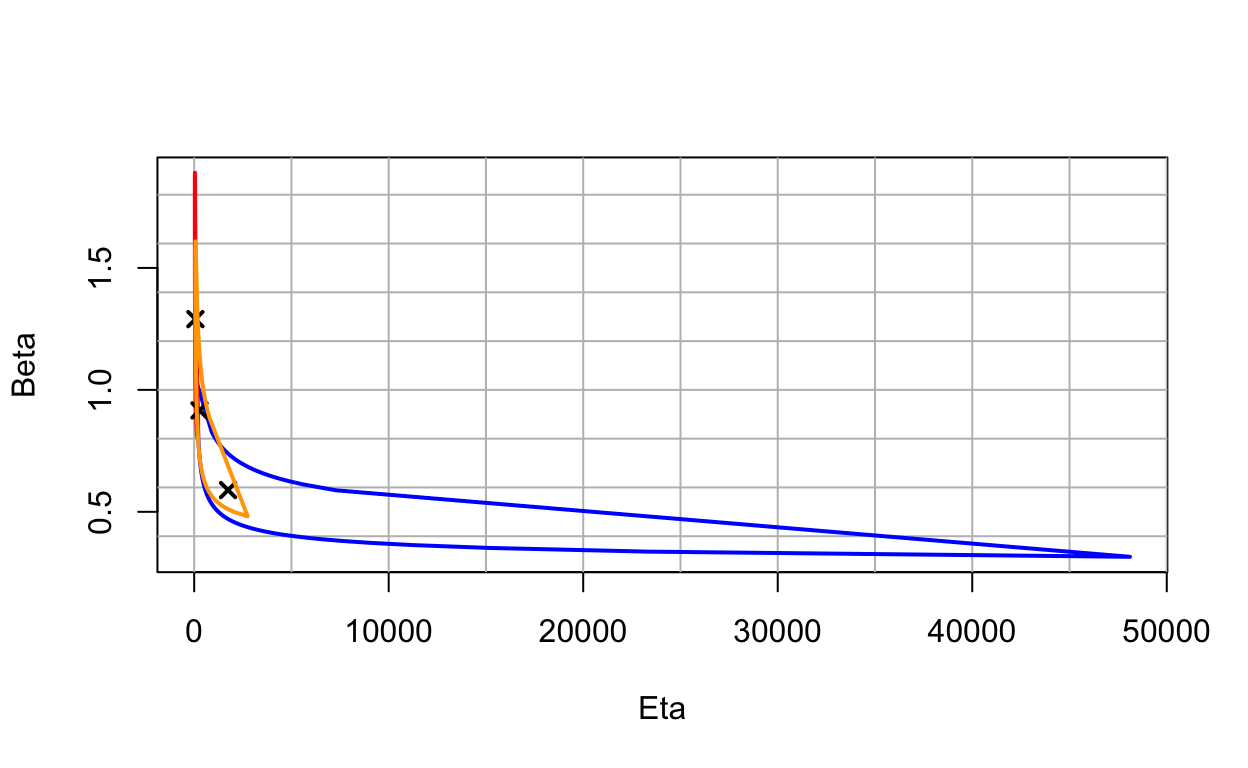
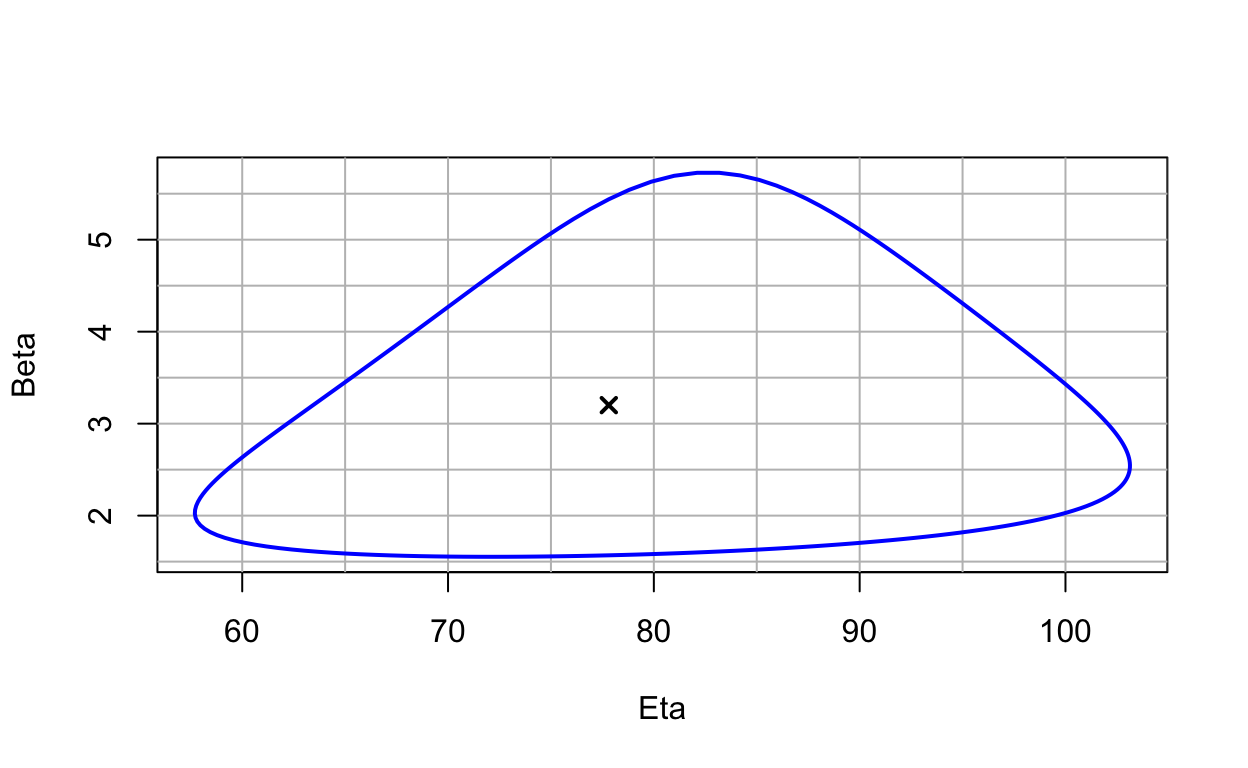
Update WeibullR.learnr function

diff --git a/inst/learnr/WeibullR.learnr.html b/inst/learnr/WeibullR.learnr.html
@@ -207,6 +207,10 @@ plot(x,y, type = &quot;l&quot;, col = &quot;blue&quot;, xlab = &quot;Variable&qu
 <pre class="r"><code>failures&lt;-c(30, 49, 82, 90, 96)
 fit&lt;-MLEw2p(failures, bounds=TRUE, show=TRUE)</code></pre>
 <p><img src="WeibullR.learnr_files/figure-html/unnamed-chunk-9-1.png" width="624" /></p>
+</div>
+<div id="section-the-weibull-probability-plot" class="section level3">
+<h3>The Weibull Probability Plot</h3>
+<p>The Weibull Probability Plot shows the time (or equivalent) on the horizontal axis and the unreliability on the vertical axis. In this case, unreliability is analogous to the cumulative probability of failure. We know from the cumulative distribution function that the opposite of the failure probability is the survival probability or reliability. So an unreliability of 80% at a given time is equivalent to a reliability of 20% (100% - 80% = 20%).</p>
 <p>Note that the horizontal axis on a probability plot is log scale, and the vertical axis is log(log(1-p)) scale, where p=(i-0.3)/(n+4) and i is the rank of the observation. By using this scale, the resulting plot of the Weibull data appears linear.</p>
 </div>
 <div id="section-exercises-1" class="section level3">
@@ -416,12 +420,21 @@ plot.wblr(list(obj1, obj2, obj3), is.plot.legend = FALSE)</code></pre>
 <div id="section-contour-plots" class="section level2">
 <h2>Contour Plots</h2>
 <p>Another way to compare multiple Weibull models is with contour plots. In this context, a contour plot consists of curves or contours that represent the Weibull distribution in terms of the parameters Beta and Eta.</p>
-<p>Let’s rerun the competing failure mode example and build contour plots for each failure mode at a probability level of 90%.</p>
+<p>Let’s start by rerunning the first example and building a contour plot.</p>
+<pre class="r"><code>failures&lt;-c(30, 49, 82, 90, 96)
+obj &lt;- wblr.conf(wblr.fit(wblr(failures, col=&quot;blue&quot;), method=&quot;mle&quot;), method=&quot;lrb&quot;)
+plot_contour(obj, CL=0.9)</code></pre>
+<p><img src="WeibullR.learnr_files/figure-html/unnamed-chunk-26-1.png" width="624" /></p>
+<p>The Weibull contour plot shows Eta on the horizontal axis, Beta on the vertical axis, and the contour plot at the selected probability (90% in this case).</p>
+<div id="section-comparing-contour-plots" class="section level3">
+<h3>Comparing Contour Plots</h3>
+<p>When comparing Weibull models, it may be helpful to think about contour plots like Venn diagrams. When contours overlap, then similarities probably exist between the distributions. When contours have no overlap, then the distributions are probably different (at the selected probability).</p>
+<p>To visualize these concepts, let’s rerun the competing failure mode example and build contour plots for each failure mode at a probability level of 90%.</p>
 <pre class="r"><code>obj1 &lt;- wblr.conf(wblr.fit(wblr(dat1, col=&quot;blue&quot;), method=&quot;mle&quot;), method=&quot;lrb&quot;)
 obj2 &lt;- wblr.conf(wblr.fit(wblr(dat2, col=&quot;red&quot;), method=&quot;mle&quot;), method=&quot;lrb&quot;)
 obj3 &lt;- wblr.conf(wblr.fit(wblr(dat3, col=&quot;orange&quot;), method=&quot;mle&quot;), method=&quot;lrb&quot;)
 plot_contour(list(obj1, obj2, obj3), CL=0.9)</code></pre>
-<p><img src="WeibullR.learnr_files/figure-html/unnamed-chunk-26-1.png" width="624" /></p>
+<p><img src="WeibullR.learnr_files/figure-html/unnamed-chunk-27-1.png" width="624" /></p>
 <div class="panel panel-default tutorial-question-container">
 <div data-label="contour-plots" class="tutorial-question panel-body">
 <div id="contour-plots-answer_container" class="shiny-html-output"></div>
@@ -431,6 +444,7 @@ plot_contour(list(obj1, obj2, obj3), CL=0.9)</code></pre>
 </div>
 </div>
 <p><strong>Challenge:</strong> rerun the competing failure mode example with a different number in the <code>set.seed</code> function and see if the same results hold true.</p>
+</div>
 </div>
 <div id="section-wrapping-up" class="section level2">
 <h2>Wrapping Up</h2>
@@ -485,16 +499,16 @@ output$distPlot <- renderPlot({
  
 <script type="application/shiny-prerendered" data-context="server">
 learnr:::question_prerendered_chunk(structure(list(type = "learnr_radio", label = "beta", question = structure("Which beta below may indicate a wear out failure mode?", html = TRUE, class = c("html", 
-"character")), answers = list(structure(list(id = "lnr_ans_c89bfff", 
+"character")), answers = list(structure(list(id = "lnr_ans_b21a382", 
     option = "1", value = "1", label = structure("1", html = TRUE, class = c("html", 
     "character")), correct = FALSE, message = NULL, type = "literal"), class = c("tutorial_question_answer", 
-"tutorial_quiz_answer")), structure(list(id = "lnr_ans_c39ea5d", 
+"tutorial_quiz_answer")), structure(list(id = "lnr_ans_96614cb", 
     option = "0.5", value = "0.5", label = structure("0.5", html = TRUE, class = c("html", 
     "character")), correct = FALSE, message = NULL, type = "literal"), class = c("tutorial_question_answer", 
-"tutorial_quiz_answer")), structure(list(id = "lnr_ans_7f5fb86", 
+"tutorial_quiz_answer")), structure(list(id = "lnr_ans_d7039d1", 
     option = "2", value = "2", label = structure("2", html = TRUE, class = c("html", 
     "character")), correct = TRUE, message = NULL, type = "literal"), class = c("tutorial_question_answer", 
-"tutorial_quiz_answer")), structure(list(id = "lnr_ans_2c8f2b1", 
+"tutorial_quiz_answer")), structure(list(id = "lnr_ans_f8bdeab", 
     option = "0", value = "0", label = structure("0", html = TRUE, class = c("html", 
     "character")), correct = FALSE, message = NULL, type = "literal"), class = c("tutorial_question_answer", 
 "tutorial_quiz_answer"))), button_labels = list(submit = structure("<span data-i18n=\"button.questionsubmit\">Submit Answer<\u002fspan>", html = TRUE, class = c("html", 
@@ -504,23 +518,23 @@ learnr:::question_prerendered_chunk(structure(list(type = "learnr_radio", label 
 "character")), incorrect = structure("Incorrect", html = TRUE, class = c("html", 
 "character")), message = NULL, post_message = NULL), ids = list(
     answer = "beta-answer", question = "beta"), loading = NULL, 
-    random_answer_order = TRUE, allow_retry = FALSE, seed = 1177757972.45156, 
+    random_answer_order = TRUE, allow_retry = FALSE, seed = 203062660.405442, 
     options = list()), class = c("learnr_radio", "tutorial_question"
 )), session = session)
 </script>
  
 <script type="application/shiny-prerendered" data-context="server">
 learnr:::question_prerendered_chunk(structure(list(type = "learnr_radio", label = "eta", question = structure("What does the parameter eta represent?", html = TRUE, class = c("html", 
-"character")), answers = list(structure(list(id = "lnr_ans_b399172", 
+"character")), answers = list(structure(list(id = "lnr_ans_fe43d48", 
     option = "shape parameter", value = "shape parameter", label = structure("shape parameter", html = TRUE, class = c("html", 
     "character")), correct = FALSE, message = NULL, type = "literal"), class = c("tutorial_question_answer", 
-"tutorial_quiz_answer")), structure(list(id = "lnr_ans_b3c396b", 
+"tutorial_quiz_answer")), structure(list(id = "lnr_ans_71df3d0", 
     option = "scale parameter", value = "scale parameter", label = structure("scale parameter", html = TRUE, class = c("html", 
     "character")), correct = TRUE, message = NULL, type = "literal"), class = c("tutorial_question_answer", 
-"tutorial_quiz_answer")), structure(list(id = "lnr_ans_21c6baf", 
+"tutorial_quiz_answer")), structure(list(id = "lnr_ans_bfaeb2b", 
     option = "failure rate", value = "failure rate", label = structure("failure rate", html = TRUE, class = c("html", 
     "character")), correct = FALSE, message = NULL, type = "literal"), class = c("tutorial_question_answer", 
-"tutorial_quiz_answer")), structure(list(id = "lnr_ans_bdcb66a", 
+"tutorial_quiz_answer")), structure(list(id = "lnr_ans_a74f5b8", 
     option = "mean time between failures", value = "mean time between failures", 
     label = structure("mean time between failures", html = TRUE, class = c("html", 
     "character")), correct = FALSE, message = NULL, type = "literal"), class = c("tutorial_question_answer", 
@@ -531,7 +545,7 @@ learnr:::question_prerendered_chunk(structure(list(type = "learnr_radio", label 
 "character")), incorrect = structure("Incorrect", html = TRUE, class = c("html", 
 "character")), message = NULL, post_message = NULL), ids = list(
     answer = "eta-answer", question = "eta"), loading = NULL, 
-    random_answer_order = TRUE, allow_retry = FALSE, seed = 793648902.130428, 
+    random_answer_order = TRUE, allow_retry = FALSE, seed = 1585963548.76148, 
     options = list()), class = c("learnr_radio", "tutorial_question"
 )), session = session)
 </script>
@@ -553,16 +567,16 @@ output$cummPlot2 <- renderPlot({
 <script type="application/shiny-prerendered" data-context="server">
 learnr:::question_prerendered_chunk(structure(list(type = "learnr_radio", label = "unreliability", 
     question = structure("What is the approximate unreliability at time 100?", html = TRUE, class = c("html", 
-    "character")), answers = list(structure(list(id = "lnr_ans_c275d54", 
-        option = "50%", value = "50%", label = structure("50%", html = TRUE, class = c("html", 
-        "character")), correct = FALSE, message = NULL, type = "literal"), class = c("tutorial_question_answer", 
-    "tutorial_quiz_answer")), structure(list(id = "lnr_ans_ca4b6f8", 
+    "character")), answers = list(structure(list(id = "lnr_ans_81aece6", 
         option = "20%", value = "20%", label = structure("20%", html = TRUE, class = c("html", 
         "character")), correct = FALSE, message = NULL, type = "literal"), class = c("tutorial_question_answer", 
-    "tutorial_quiz_answer")), structure(list(id = "lnr_ans_e1f3d1a", 
-        option = "75%", value = "75%", label = structure("75%", html = TRUE, class = c("html", 
+    "tutorial_quiz_answer")), structure(list(id = "lnr_ans_e59e8d9", 
+        option = "80%", value = "80%", label = structure("80%", html = TRUE, class = c("html", 
         "character")), correct = FALSE, message = NULL, type = "literal"), class = c("tutorial_question_answer", 
-    "tutorial_quiz_answer")), structure(list(id = "lnr_ans_f708592", 
+    "tutorial_quiz_answer")), structure(list(id = "lnr_ans_8e67ef", 
+        option = "10%", value = "10%", label = structure("10%", html = TRUE, class = c("html", 
+        "character")), correct = FALSE, message = NULL, type = "literal"), class = c("tutorial_question_answer", 
+    "tutorial_quiz_answer")), structure(list(id = "lnr_ans_2bb53f1", 
         option = "90%", value = "90%", label = structure("90%", html = TRUE, class = c("html", 
         "character")), correct = TRUE, message = NULL, type = "literal"), class = c("tutorial_question_answer", 
     "tutorial_quiz_answer"))), button_labels = list(submit = structure("<span data-i18n=\"button.questionsubmit\">Submit Answer<\u002fspan>", html = TRUE, class = c("html", 
@@ -573,22 +587,22 @@ learnr:::question_prerendered_chunk(structure(list(type = "learnr_radio", label 
     "character")), message = NULL, post_message = NULL), ids = list(
         answer = "unreliability-answer", question = "unreliability"), 
     loading = NULL, random_answer_order = TRUE, allow_retry = FALSE, 
-    seed = 844391922.606799, options = list()), class = c("learnr_radio", 
+    seed = 756753522.647609, options = list()), class = c("learnr_radio", 
 "tutorial_question")), session = session)
 </script>
  
 <script type="application/shiny-prerendered" data-context="server">
-learnr:::question_prerendered_chunk(structure(list(type = "learnr_radio", label = "b50", question = structure("What is the approximate P50 life (the time at which 50% of the machines are expected to fail?)", html = TRUE, class = c("html", 
-"character")), answers = list(structure(list(id = "lnr_ans_abb26ca", 
-    option = "70", value = "70", label = structure("70", html = TRUE, class = c("html", 
+learnr:::question_prerendered_chunk(structure(list(type = "learnr_radio", label = "b50", question = structure("What is the approximate reliability at time 50?)", html = TRUE, class = c("html", 
+"character")), answers = list(structure(list(id = "lnr_ans_d523dd7", 
+    option = "20%", value = "20%", label = structure("20%", html = TRUE, class = c("html", 
     "character")), correct = TRUE, message = NULL, type = "literal"), class = c("tutorial_question_answer", 
-"tutorial_quiz_answer")), structure(list(id = "lnr_ans_7e0d264", 
-    option = "50", value = "50", label = structure("50", html = TRUE, class = c("html", 
+"tutorial_quiz_answer")), structure(list(id = "lnr_ans_b168537", 
+    option = "80%", value = "80%", label = structure("80%", html = TRUE, class = c("html", 
     "character")), correct = FALSE, message = NULL, type = "literal"), class = c("tutorial_question_answer", 
-"tutorial_quiz_answer")), structure(list(id = "lnr_ans_4d6e302", 
-    option = "100", value = "100", label = structure("100", html = TRUE, class = c("html", 
+"tutorial_quiz_answer")), structure(list(id = "lnr_ans_16f9718", 
+    option = "10", value = "10", label = structure("10", html = TRUE, class = c("html", 
     "character")), correct = FALSE, message = NULL, type = "literal"), class = c("tutorial_question_answer", 
-"tutorial_quiz_answer")), structure(list(id = "lnr_ans_e06fa2a", 
+"tutorial_quiz_answer")), structure(list(id = "lnr_ans_8b453fb", 
     option = "90", value = "90", label = structure("90", html = TRUE, class = c("html", 
     "character")), correct = FALSE, message = NULL, type = "literal"), class = c("tutorial_question_answer", 
 "tutorial_quiz_answer"))), button_labels = list(submit = structure("<span data-i18n=\"button.questionsubmit\">Submit Answer<\u002fspan>", html = TRUE, class = c("html", 
@@ -598,23 +612,23 @@ learnr:::question_prerendered_chunk(structure(list(type = "learnr_radio", label 
 "character")), incorrect = structure("Incorrect", html = TRUE, class = c("html", 
 "character")), message = NULL, post_message = NULL), ids = list(
     answer = "b50-answer", question = "b50"), loading = NULL, 
-    random_answer_order = TRUE, allow_retry = FALSE, seed = 754113424.148839, 
+    random_answer_order = TRUE, allow_retry = FALSE, seed = 2020985366.05891, 
     options = list()), class = c("learnr_radio", "tutorial_question"
 )), session = session)
 </script>
  
 <script type="application/shiny-prerendered" data-context="server">
 learnr:::question_prerendered_chunk(structure(list(type = "learnr_radio", label = "qty", question = structure("In the interval censored example, how many units are in the group of suspensions that did not fail?", html = TRUE, class = c("html", 
-"character")), answers = list(structure(list(id = "lnr_ans_9ae411c", 
+"character")), answers = list(structure(list(id = "lnr_ans_8312b26", 
     option = "73", value = "73", label = structure("73", html = TRUE, class = c("html", 
     "character")), correct = TRUE, message = NULL, type = "literal"), class = c("tutorial_question_answer", 
-"tutorial_quiz_answer")), structure(list(id = "lnr_ans_b5a98b8", 
+"tutorial_quiz_answer")), structure(list(id = "lnr_ans_66adec9", 
     option = "17", value = "17", label = structure("17", html = TRUE, class = c("html", 
     "character")), correct = FALSE, message = NULL, type = "literal"), class = c("tutorial_question_answer", 
-"tutorial_quiz_answer")), structure(list(id = "lnr_ans_51de18f", 
+"tutorial_quiz_answer")), structure(list(id = "lnr_ans_ff14d4c", 
     option = "94", value = "94", label = structure("94", html = TRUE, class = c("html", 
     "character")), correct = FALSE, message = NULL, type = "literal"), class = c("tutorial_question_answer", 
-"tutorial_quiz_answer")), structure(list(id = "lnr_ans_424976a", 
+"tutorial_quiz_answer")), structure(list(id = "lnr_ans_6250cdd", 
     option = "63.48", value = "63.48", label = structure("63.48", html = TRUE, class = c("html", 
     "character")), correct = FALSE, message = NULL, type = "literal"), class = c("tutorial_question_answer", 
 "tutorial_quiz_answer"))), button_labels = list(submit = structure("<span data-i18n=\"button.questionsubmit\">Submit Answer<\u002fspan>", html = TRUE, class = c("html", 
@@ -624,7 +638,7 @@ learnr:::question_prerendered_chunk(structure(list(type = "learnr_radio", label 
 "character")), incorrect = structure("Incorrect", html = TRUE, class = c("html", 
 "character")), message = NULL, post_message = NULL), ids = list(
     answer = "qty-answer", question = "qty"), loading = NULL, 
-    random_answer_order = TRUE, allow_retry = FALSE, seed = 1933594471.0996, 
+    random_answer_order = TRUE, allow_retry = FALSE, seed = 84901987.9604644, 
     options = list()), class = c("learnr_radio", "tutorial_question"
 )), session = session)
 </script>
@@ -632,16 +646,16 @@ learnr:::question_prerendered_chunk(structure(list(type = "learnr_radio", label 
 <script type="application/shiny-prerendered" data-context="server">
 learnr:::question_prerendered_chunk(structure(list(type = "learnr_radio", label = "failure-count", 
     question = structure("In the interval censored example, how many total failures occurred?", html = TRUE, class = c("html", 
-    "character")), answers = list(structure(list(id = "lnr_ans_b6a7a95", 
+    "character")), answers = list(structure(list(id = "lnr_ans_dfef6ea", 
         option = "73", value = "73", label = structure("73", html = TRUE, class = c("html", 
         "character")), correct = FALSE, message = NULL, type = "literal"), class = c("tutorial_question_answer", 
-    "tutorial_quiz_answer")), structure(list(id = "lnr_ans_bec200", 
+    "tutorial_quiz_answer")), structure(list(id = "lnr_ans_b4953ce", 
         option = "17", value = "17", label = structure("17", html = TRUE, class = c("html", 
         "character")), correct = FALSE, message = NULL, type = "literal"), class = c("tutorial_question_answer", 
-    "tutorial_quiz_answer")), structure(list(id = "lnr_ans_d3e6508", 
+    "tutorial_quiz_answer")), structure(list(id = "lnr_ans_96437d5", 
         option = "94", value = "94", label = structure("94", html = TRUE, class = c("html", 
         "character")), correct = TRUE, message = NULL, type = "literal"), class = c("tutorial_question_answer", 
-    "tutorial_quiz_answer")), structure(list(id = "lnr_ans_ee36885", 
+    "tutorial_quiz_answer")), structure(list(id = "lnr_ans_891968b", 
         option = "63.48", value = "63.48", label = structure("63.48", html = TRUE, class = c("html", 
         "character")), correct = FALSE, message = NULL, type = "literal"), class = c("tutorial_question_answer", 
     "tutorial_quiz_answer"))), button_labels = list(submit = structure("<span data-i18n=\"button.questionsubmit\">Submit Answer<\u002fspan>", html = TRUE, class = c("html", 
@@ -652,7 +666,7 @@ learnr:::question_prerendered_chunk(structure(list(type = "learnr_radio", label 
     "character")), message = NULL, post_message = NULL), ids = list(
         answer = "failure-count-answer", question = "failure-count"), 
     loading = NULL, random_answer_order = TRUE, allow_retry = FALSE, 
-    seed = 830713466.113169, options = list()), class = c("learnr_radio", 
+    seed = 177684410.417259, options = list()), class = c("learnr_radio", 
 "tutorial_question")), session = session)
 </script>
  

diff --git a/news.md b/news.md
@@ -1,3 +1,5 @@
+# WeibullR.learnr 0.1.1
+
 # WeibullR.learnr v0.1
 
 ## Initial release
